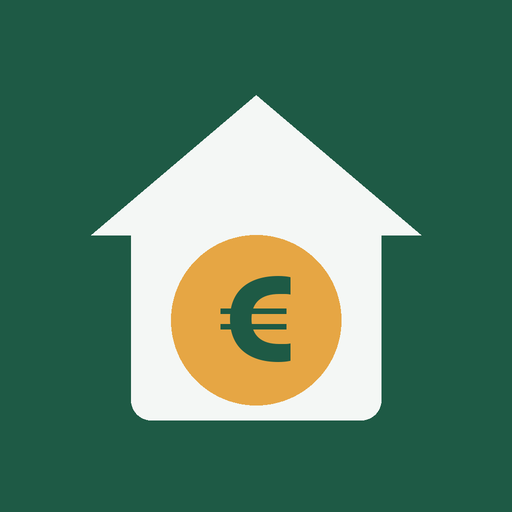
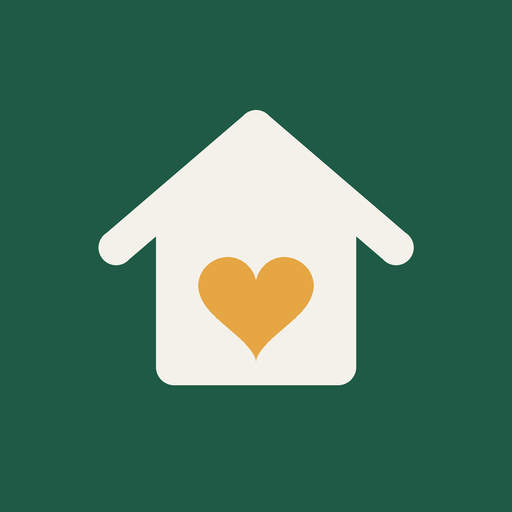
Versione 44: nuovo nome (Casa Peron, "Casa" sul telefono) e nuova icona

Changed region(s): [[0.1875, 0.1875, 0.8125, 0.8438]]

diff --git a/index.html b/index.html
@@ -3,12 +3,12 @@
 <head>
 <meta charset="utf-8">
 <meta name="viewport" content="width=device-width, initial-scale=1, viewport-fit=cover">
-<title>Spese di famiglia</title>
+<title>Casa Peron</title>
 <link rel="preconnect" href="https://fonts.googleapis.com">
 <link rel="preconnect" href="https://fonts.gstatic.com" crossorigin>
 <link href="https://fonts.googleapis.com/css2?family=Bricolage+Grotesque:opsz,wght@12..96,500;12..96,700;12..96,800&family=Figtree:wght@400;500;600;700&display=swap" rel="stylesheet">
 <meta name="apple-mobile-web-app-capable" content="yes">
-<meta name="apple-mobile-web-app-title" content="Spese">
+<meta name="apple-mobile-web-app-title" content="Casa">
 <link rel="apple-touch-icon" href="icon-180.png">
 <link rel="icon" type="image/png" sizes="32x32" href="icon-32.png">
 <link rel="manifest" href="manifest.json">
@@ -331,7 +331,7 @@ button.mrow:hover,.mrow.on{background:var(--sunk)}
 </head>
 <body>
 <header class="top">
-  <div class="brand">Spese di famiglia</div>
+  <div class="brand">Casa</div>
   <div class="month" id="monthbox">
     <button data-act="prevm" aria-label="Periodo precedente">‹</button>
     <button id="mlabel" class="plab" data-act="period" aria-label="Scegli il periodo"></button>
@@ -362,7 +362,7 @@ import { initializeFirestore, persistentLocalCache, persistentMultipleTabManager
 (() => {
 "use strict";
 // Versione dell'app: si aggiorna a ogni pubblicazione; l'app la confronta con quella online
-const APP_VERSION = "43 · 22/11/2026";
+const APP_VERSION = "44 · 22/11/2026";
 const CASH = "Contanti";
 const BASE_CATS = [
   ["spesa","Spesa alimentare","#3E8E5A"],["ristoranti","Ristoranti e bar","#D9822B"],
@@ -2342,7 +2342,7 @@ async function exportCSV(scope){
 // ---------- Render ----------
 function isEditing(){const a=document.activeElement;return a&&$("#view").contains(a)&&/^(INPUT|TEXTAREA|SELECT)$/.test(a.tagName)&&a.type!=="checkbox"&&a.type!=="file"}
 function vLogin(){return `<section class="empty">
-  <h1>Spese di famiglia</h1>
+  <h1>Casa Peron</h1>
   <p>Accedi con la tua email e la password.</p>
   <div class="field"><label for="le">Email</label><input type="email" id="le" autocomplete="username" value="${h(S.loginEmail||"")}"></div>
   <div class="field"><label for="lp">Password</label><input type="password" id="lp" autocomplete="current-password"></div>

diff --git a/sw.js b/sw.js
@@ -2,7 +2,7 @@
 // La pagina e i file del sito: prima la rete (così gli aggiornamenti arrivano subito), se manca si usa la copia salvata.
 // Librerie, caratteri e loghi delle tessere: la copia salvata, aggiornata in sottofondo.
 // I dati (Firestore) e il login non passano da qui: li conserva Firebase.
-const CACHE = "casa-v1";
+const CACHE = "casa-v2";
 const SHELL = ["./", "index.html", "config.js", "manifest.json", "icon-32.png", "icon-180.png", "icon-192.png", "icon-512.png"];
 const CDN = /^https:\/\/(www\.gstatic\.com\/firebasejs\/|cdnjs\.cloudflare\.com\/|cdn\.jsdelivr\.net\/npm\/@zxing\/|fonts\.googleapis\.com\/|fonts\.gstatic\.com\/)/;
 
